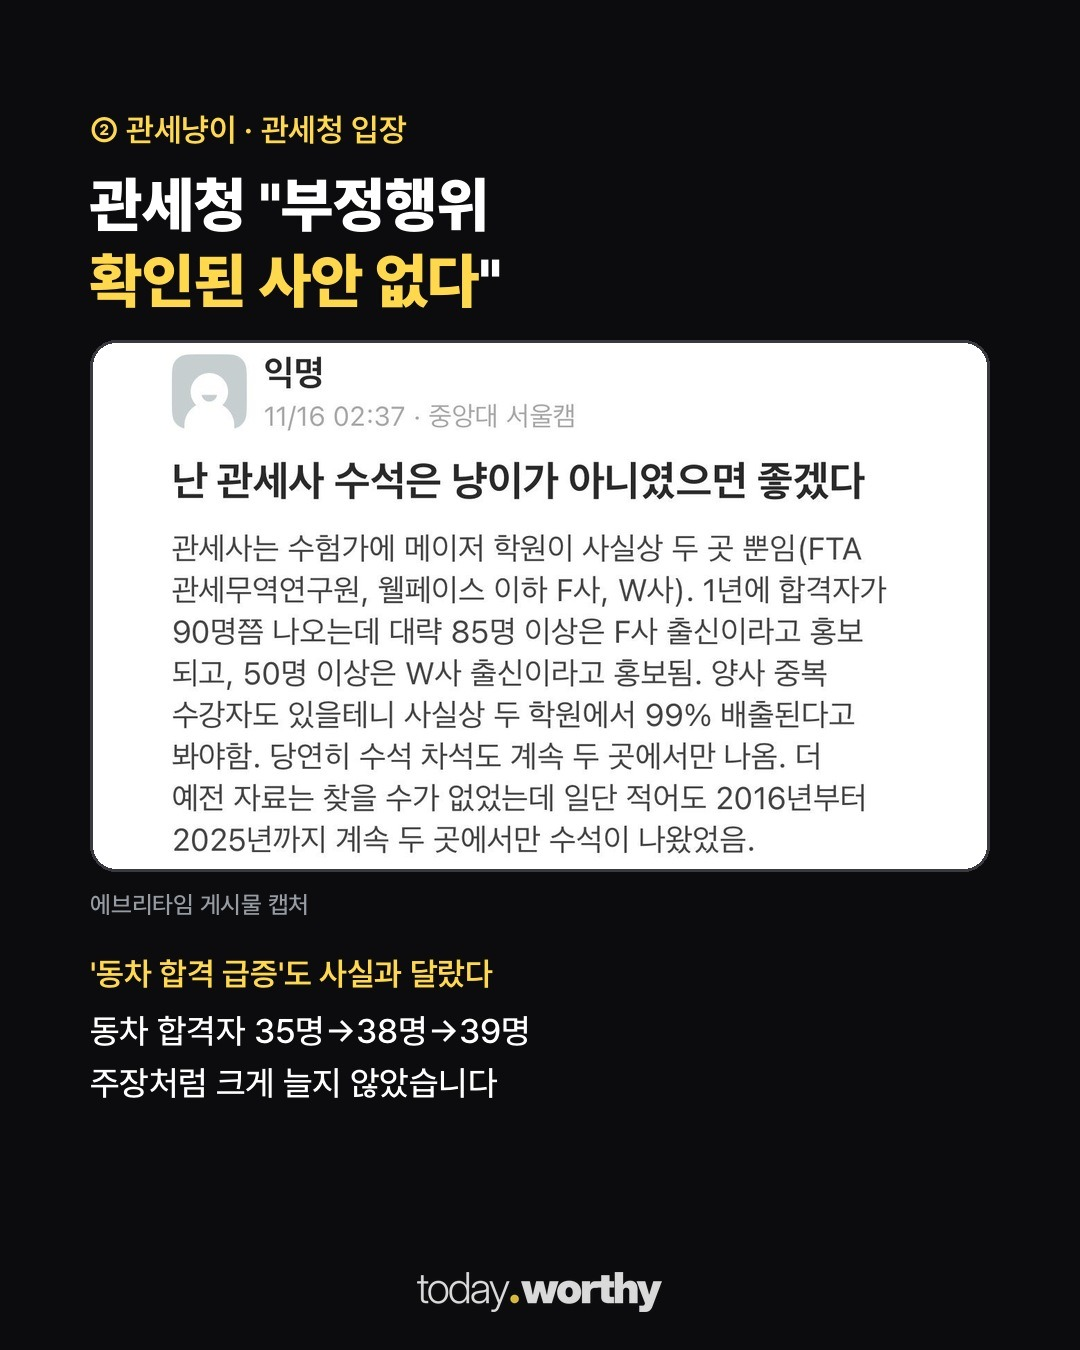
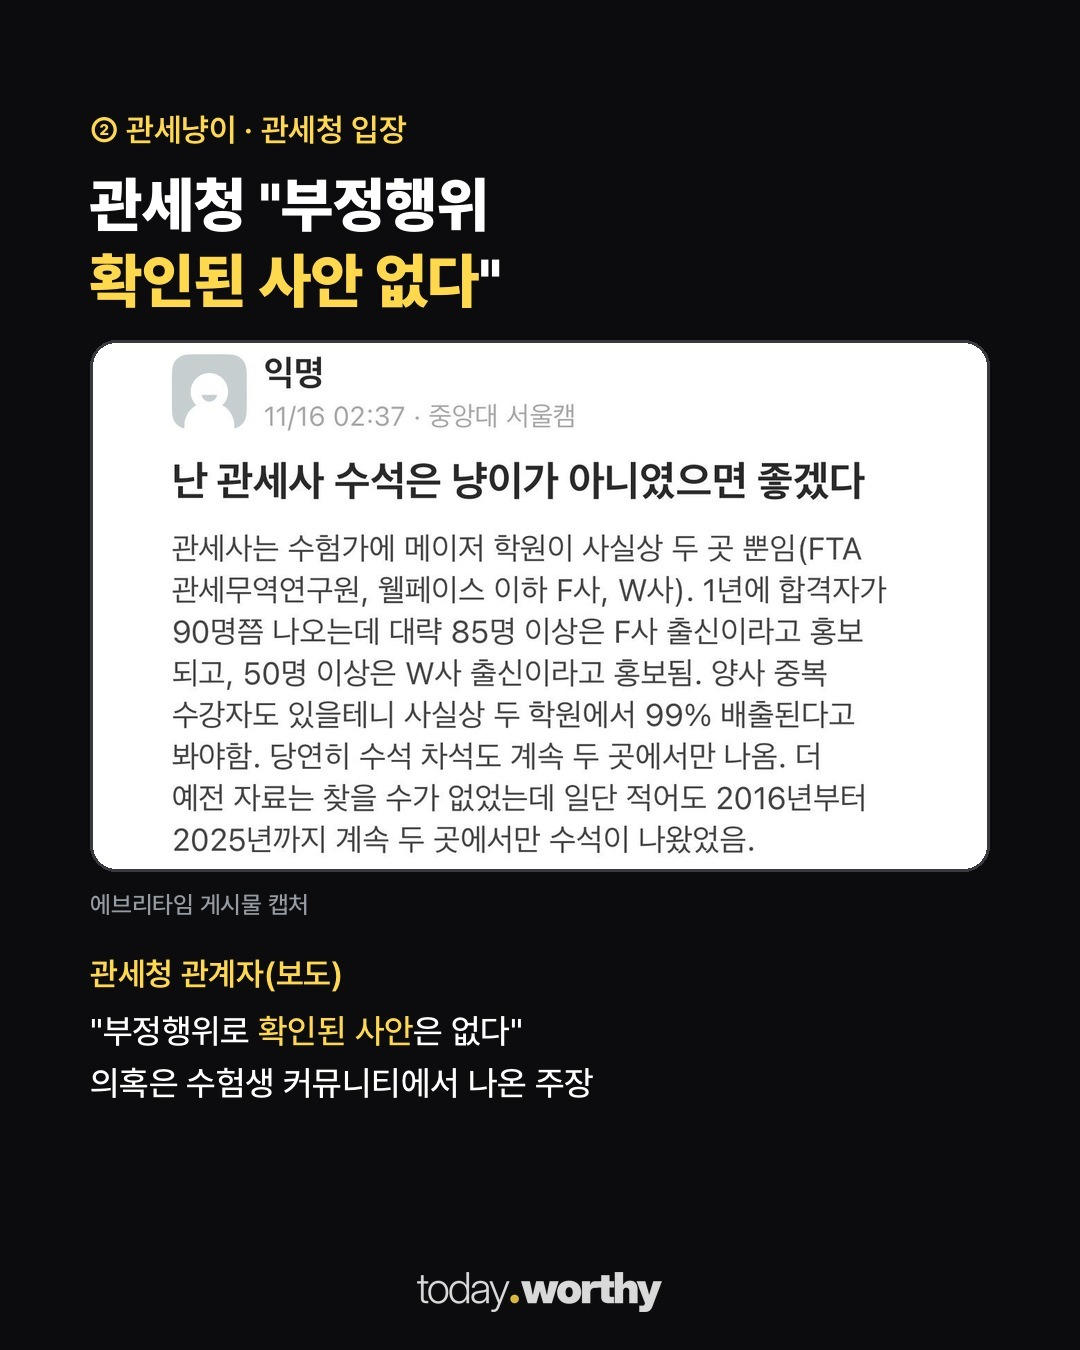
nyang3: 동차 숫자 빼고 관세청 입장만, 바로 게시(state 직접 승인)
Claude-Session: https://claude.ai/code/session_01FGsw5QnWxFUsnopcB1Czie

Changed region(s): [[0.0917, 0.6844, 0.55, 0.8089]]

diff --git a/media/20261117-nyang3/build_cards.py b/media/20261117-nyang3/build_cards.py
@@ -39,7 +39,7 @@ specs = [
  {"out": str(O / "c04.jpg"), "sub": "② 관세냥이 · 관세사 수석 합격자", "title": "수석인데 인터뷰도\n축하 행사도 '안 왔다'", "cap": str(O / "cap_ev.png"), "cap_max_h": 560, "box_bg": [255, 255, 255],
   "caption": "에브리타임 게시물 캡처", "label": "10년 공식이 깨졌다", "lines": ["10년간 학원 두 곳이 수석·차석을 냈는데", "올해 수석은 '수강 이력이 없다'는 주장"]},
  {"out": str(O / "c05.jpg"), "sub": "② 관세냥이 · 관세청 입장", "title": "관세청 \"부정행위\n'확인된 사안 없다'\"", "cap": str(O / "cap_ev2.png"), "cap_max_h": 520, "box_bg": [255, 255, 255],
-  "caption": "에브리타임 게시물 캡처", "label": "'동차 합격 급증'도 사실과 달랐다", "lines": ["동차 합격자 35명→38명→39명", "주장처럼 크게 늘지 않았습니다"]},
+  "caption": "에브리타임 게시물 캡처", "label": "관세청 관계자(보도)", "lines": ["\"부정행위로 '확인된 사안'은 없다\"", "의혹은 수험생 커뮤니티에서 나온 주장"]},
  {"out": str(O / "c06.jpg"), "sub": "③ 경희냥이 · 경희대 컴공 편입 합격생", "title": "두 달 뒤 30문제를\n'통째로' 복기", "cap": str(O / "cap_khu.png"), "cap_max_h": 580, "box_bg": [255, 255, 255],
   "caption": "디시인사이드 게시물 캡처(손글씨 복기)", "label": "기출 공개 전에 올린 손글씨", "lines": ["학교가 나중에 공개한 시험지와", "번호·보기 '순서까지' 모두 일치"]},
  {"out": str(O / "c07.jpg"), "sub": "③ 경희냥이 · 본인 해명", "title": "해명은\n'과잉기억증후군'", "cap": str(O / "cap_game.png"), "cap_max_h": 560, "box_bg": [255, 255, 255],
